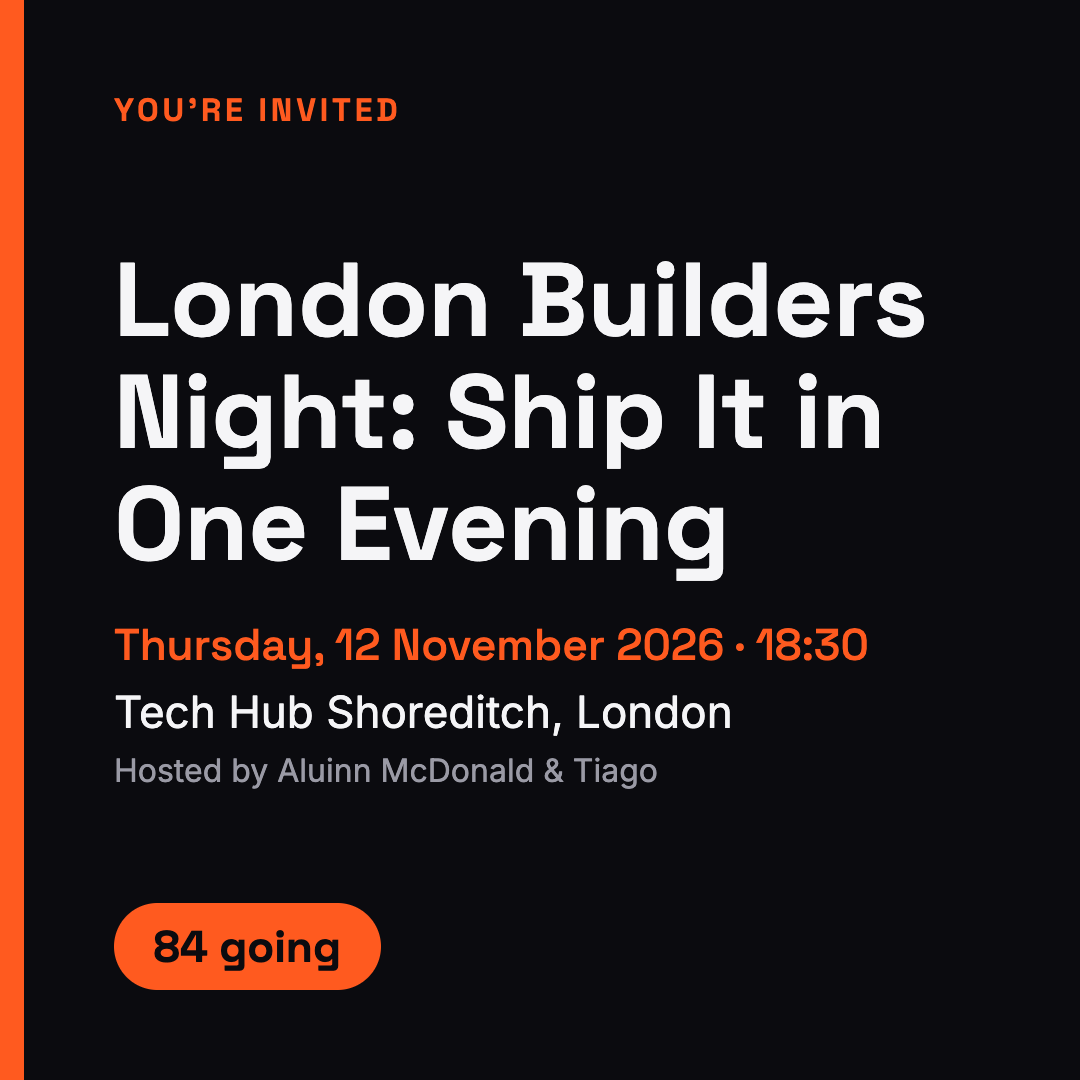
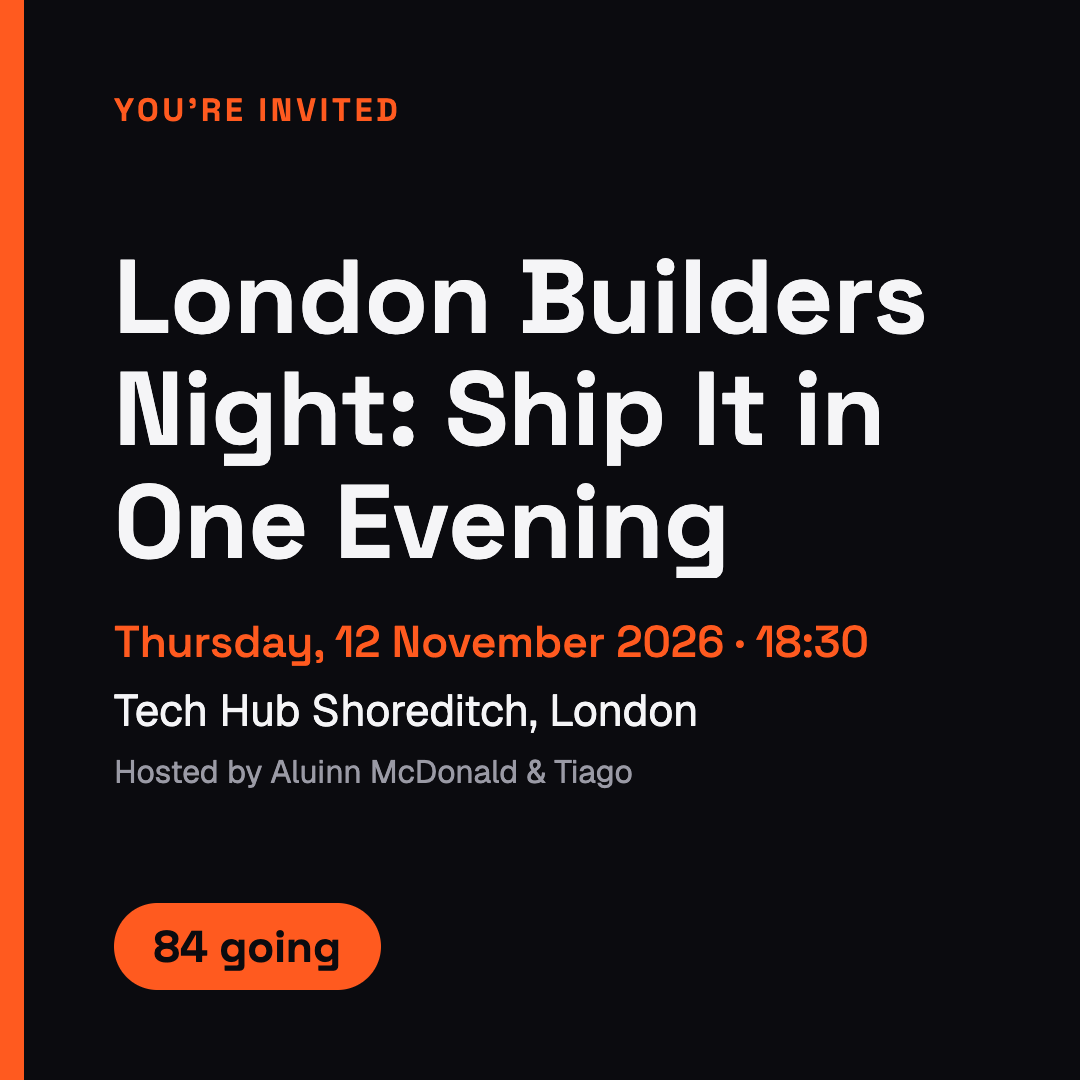
Switch body font from Inter to Geist in the image templates and brand guide; re-render promo images

diff --git a/templates/story.html b/templates/story.html
@@ -5,7 +5,7 @@
 <head>
   <meta charset="UTF-8">
   <title>Event Autopilot - story</title>
-  <link href="https://fonts.googleapis.com/css2?family=Inter:wght@400;500;600&family=Space+Grotesk:wght@500;700&display=swap" rel="stylesheet">
+  <link href="https://fonts.googleapis.com/css2?family=Geist:wght@400;500;600&family=Space+Grotesk:wght@500;700&display=swap" rel="stylesheet">
   <style>
     /* Brand: background #0B0B0F, accent #FF5A1F, text #F5F5F7, muted #9A9AA5. No gradients or shadows. */
     * { box-sizing: border-box; margin: 0; }
@@ -13,7 +13,7 @@
     body {
       --pad:90px; --left:114px; --top:220px; --bottom:260px; --bar:24px; --logo:380px; --small:36px; --name:120px; --name-max:760px; --body:52px; --venue-max:200px; --hosts-max:140px; --badge:52px; --gap:48px;
       position: relative; overflow: hidden;
-      background: #0B0B0F; color: #F5F5F7; font-family: "Inter", sans-serif;
+      background: #0B0B0F; color: #F5F5F7; font-family: "Geist", system-ui, sans-serif;
       display: flex; flex-direction: column;
       padding: var(--top) var(--pad) var(--bottom) var(--left);
     }

diff --git a/templates/square.html b/templates/square.html
@@ -5,7 +5,7 @@
 <head>
   <meta charset="UTF-8">
   <title>Event Autopilot - square</title>
-  <link href="https://fonts.googleapis.com/css2?family=Inter:wght@400;500;600&family=Space+Grotesk:wght@500;700&display=swap" rel="stylesheet">
+  <link href="https://fonts.googleapis.com/css2?family=Geist:wght@400;500;600&family=Space+Grotesk:wght@500;700&display=swap" rel="stylesheet">
   <style>
     /* Brand: background #0B0B0F, accent #FF5A1F, text #F5F5F7, muted #9A9AA5. No gradients or shadows. */
     * { box-sizing: border-box; margin: 0; }
@@ -13,7 +13,7 @@
     body {
       --pad:90px; --left:114px; --top:90px; --bottom:90px; --bar:24px; --logo:340px; --small:32px; --name:104px; --name-max:520px; --body:44px; --venue-max:130px; --hosts-max:90px; --badge:44px; --gap:36px;
       position: relative; overflow: hidden;
-      background: #0B0B0F; color: #F5F5F7; font-family: "Inter", sans-serif;
+      background: #0B0B0F; color: #F5F5F7; font-family: "Geist", system-ui, sans-serif;
       display: flex; flex-direction: column;
       padding: var(--top) var(--pad) var(--bottom) var(--left);
     }

diff --git a/templates/poster.html b/templates/poster.html
@@ -5,7 +5,7 @@
 <head>
   <meta charset="UTF-8">
   <title>Event Autopilot - poster</title>
-  <link href="https://fonts.googleapis.com/css2?family=Inter:wght@400;500;600&family=Space+Grotesk:wght@500;700&display=swap" rel="stylesheet">
+  <link href="https://fonts.googleapis.com/css2?family=Geist:wght@400;500;600&family=Space+Grotesk:wght@500;700&display=swap" rel="stylesheet">
   <style>
     /* Brand: background #0B0B0F, accent #FF5A1F, text #F5F5F7, muted #9A9AA5. No gradients or shadows. */
     * { box-sizing: border-box; margin: 0; }
@@ -13,7 +13,7 @@
     body {
       --pad:54px; --left:78px; --top:54px; --bottom:54px; --bar:18px; --logo:250px; --small:24px; --name:72px; --name-max:160px; --body:32px; --venue-max:76px; --hosts-max:56px; --badge:32px; --gap:22px;
       position: relative; overflow: hidden;
-      background: #0B0B0F; color: #F5F5F7; font-family: "Inter", sans-serif;
+      background: #0B0B0F; color: #F5F5F7; font-family: "Geist", system-ui, sans-serif;
       display: flex; flex-direction: column;
       padding: var(--top) var(--pad) var(--bottom) var(--left);
     }

diff --git a/templates/digest-newsletter.html b/templates/digest-newsletter.html
@@ -11,7 +11,7 @@
   <style>
     /* Brand: background #0B0B0F, cards #16161D, accent #FF5A1F, text #F5F5F7, muted #9A9AA5. No gradients or shadows. */
     * { box-sizing: border-box; margin: 0; }
-    body { background: #0B0B0F; color: #F5F5F7; font-family: "Geist", "Inter", system-ui, sans-serif; font-size: 16px; line-height: 1.55; padding: 40px 16px; -webkit-font-smoothing: antialiased; }
+    body { background: #0B0B0F; color: #F5F5F7; font-family: "Geist", system-ui, sans-serif; font-size: 16px; line-height: 1.55; padding: 40px 16px; -webkit-font-smoothing: antialiased; }
 
     /* The email: one centred column */
     .email { max-width: 640px; margin: 0 auto; background: #16161D; border: 1px solid #26262F; border-radius: 12px; overflow: hidden; }

diff --git a/promo-and-approval-ui/templates/story.html b/promo-and-approval-ui/templates/story.html
@@ -2,7 +2,7 @@
 <html>
 <head>
   <meta charset="UTF-8">
-  <link href="https://fonts.googleapis.com/css2?family=Inter:wght@400;500;600&family=Space+Grotesk:wght@500;700&display=swap" rel="stylesheet">
+  <link href="https://fonts.googleapis.com/css2?family=Geist:wght@400;500;600&family=Space+Grotesk:wght@500;700&display=swap" rel="stylesheet">
   <link rel="stylesheet" href="template.css">
   <style>
     /* Story 1080x1920 (extra space top and bottom so nothing hides behind app buttons) */

diff --git a/promo-and-approval-ui/templates/square.html b/promo-and-approval-ui/templates/square.html
@@ -2,7 +2,7 @@
 <html>
 <head>
   <meta charset="UTF-8">
-  <link href="https://fonts.googleapis.com/css2?family=Inter:wght@400;500;600&family=Space+Grotesk:wght@500;700&display=swap" rel="stylesheet">
+  <link href="https://fonts.googleapis.com/css2?family=Geist:wght@400;500;600&family=Space+Grotesk:wght@500;700&display=swap" rel="stylesheet">
   <link rel="stylesheet" href="template.css">
   <style>
     /* Square 1080x1080 */

diff --git a/promo-and-approval-ui/templates/wide.html b/promo-and-approval-ui/templates/wide.html
@@ -2,7 +2,7 @@
 <html>
 <head>
   <meta charset="UTF-8">
-  <link href="https://fonts.googleapis.com/css2?family=Inter:wght@400;500;600&family=Space+Grotesk:wght@500;700&display=swap" rel="stylesheet">
+  <link href="https://fonts.googleapis.com/css2?family=Geist:wght@400;500;600&family=Space+Grotesk:wght@500;700&display=swap" rel="stylesheet">
   <link rel="stylesheet" href="template.css">
   <style>
     /* Wide 1200x630 */

diff --git a/promo-and-approval-ui/dashboard/style.css b/promo-and-approval-ui/dashboard/style.css
@@ -19,7 +19,7 @@ body {
   margin: 0;
   background: var(--bg);
   color: var(--text);
-  font-family: "Geist", "Inter", system-ui, sans-serif;
+  font-family: "Geist", system-ui, sans-serif;
   font-size: 18px;
   line-height: 1.6;
   -webkit-font-smoothing: antialiased;

diff --git a/promo-and-approval-ui/templates/template.css b/promo-and-approval-ui/templates/template.css
@@ -5,7 +5,7 @@
 body {
   background: #0B0B0F;
   color: #F5F5F7;
-  font-family: "Inter", sans-serif;
+  font-family: "Geist", system-ui, sans-serif;
   display: flex;
   flex-direction: column;
   padding: var(--pad);

diff --git a/brand/brand.md b/brand/brand.md
@@ -12,18 +12,23 @@ Clean, minimal, large type. **No gradients. No shadows.** Dark background with o
 | Text        | `#F5F5F7` | Main text and headings                       |
 | Muted text  | `#9A9AA5` | Secondary text, labels, small print          |
 
-## Fonts (both free from Google Fonts)
+## Fonts (all free from Google Fonts)
 
 - **Headings:** Space Grotesk (weights 500 and 700)
-- **Body text:** Inter (weights 400, 500 and 600)
+- **Body text:** Geist (weights 400, 500 and 600), a sharp, modern interface font
+- **Small labels:** Geist Mono (weights 400 and 500), for tiny technical labels like "PENDING REVIEW", item numbers and image sizes. Used in the website's review area only; the images don't need it.
+
+(The body font was Inter until October 2026. It was replaced with Geist across the website, the images and the newsletter.)
 
 Add this line to the top of any web page or template to load them:
 
 ```html
-<link href="https://fonts.googleapis.com/css2?family=Inter:wght@400;500;600&family=Space+Grotesk:wght@500;700&display=swap" rel="stylesheet">
+<link href="https://fonts.googleapis.com/css2?family=Geist:wght@400;500;600&family=Geist+Mono:wght@400;500&family=Space+Grotesk:wght@500;700&display=swap" rel="stylesheet">
 ```
 
-Fallback if the fonts can't load: `sans-serif`.
+Images only use Space Grotesk and Geist, so their templates can leave out `Geist+Mono`.
+
+Fallback if the fonts can't load: `system-ui, sans-serif`.
 
 ## Logo
 
